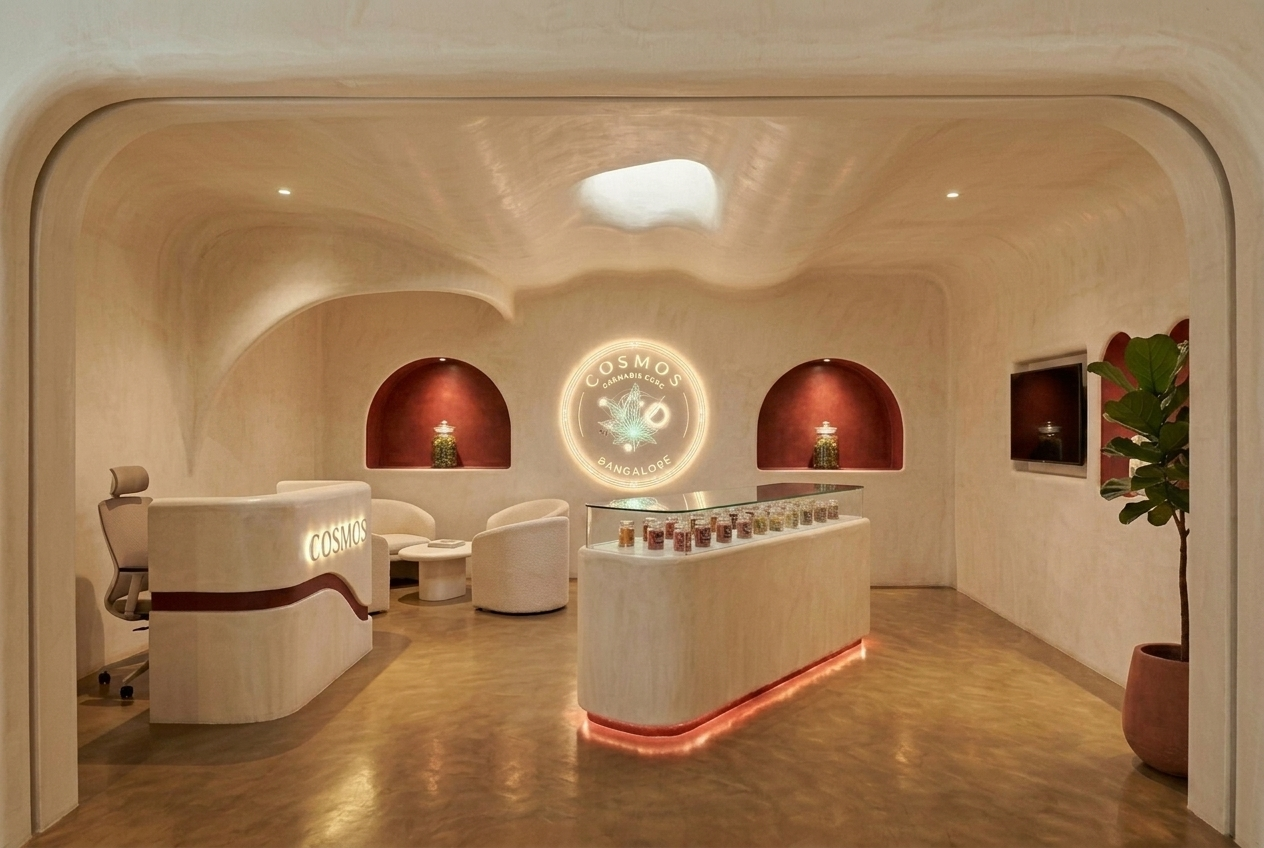
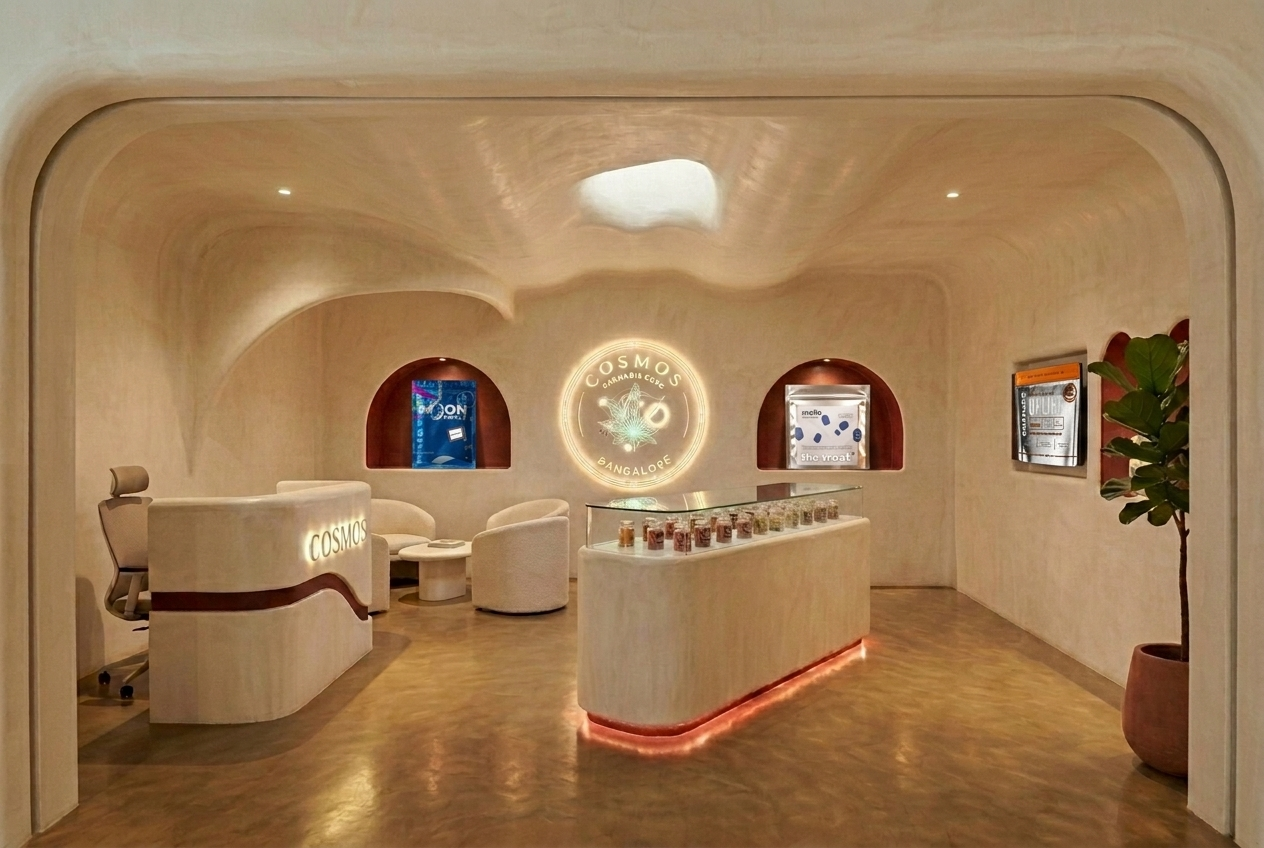
## Real Product Niches + Interior Gallery (Done & Verified) - **Real products in niches**: Composited the actual featured packs — Moon Impact (blue), Trost "mello", and Cannazo "UPLIFT" — into the three arched niches, each spotlit (interior-concept.jpg updated) - **Second angle**: Generated a warm r
Note: the niche products are AI-composited approximations of the real packaging — swap for proper studio shots whenever you have them for pixel-accurate branding.

- Next Action Items:
  - **Studio Product Shots**: Send real jar/pack photos and I'll drop them into the niches for exact accuracy
  - **Redeploy Production**: Push all recent updates live to www.cosmoscannabis.in
  - **Interior Lightbox**: Make the gallery images click-to-zoom for a closer look
  - **Compliance Badges**: Add GMP/ISO/FSSAI logos to product pages once you upload the official files

Changed region(s): [[0.6171, 0.4292, 0.7097, 0.5825], [0.3085, 0.4292, 0.4011, 0.5825], [0.8022, 0.4292, 0.8639, 0.5519]]

diff --git a/frontend/src/pages/Home.js b/frontend/src/pages/Home.js
@@ -404,12 +404,26 @@ export default function Home() {
             whileInView={{ opacity: 1, scale: 1 }}
             viewport={{ once: true, margin: "-80px" }}
             transition={{ duration: 1, ease: [0.22, 1, 0.36, 1] }}
-            className="overflow-hidden aspect-[3/2] md:aspect-[16/9]"
+            className="overflow-hidden aspect-[3/2] md:aspect-[16/9] mb-4"
             data-testid="interior-image-wrap"
           >
             <img
               src="/brand-assets/store/interior-concept.jpg"
-              alt="Cosmos Cannabis Cure interior concept"
+              alt="Cosmos Cannabis Cure interior — product niches and island counter"
+              className="w-full h-full object-cover"
+            />
+          </motion.div>
+          <motion.div
+            initial={{ opacity: 0, y: 30 }}
+            whileInView={{ opacity: 1, y: 0 }}
+            viewport={{ once: true, margin: "-60px" }}
+            transition={{ duration: 0.9, delay: 0.1, ease: [0.22, 1, 0.36, 1] }}
+            className="overflow-hidden aspect-[3/2] md:aspect-[21/9]"
+            data-testid="interior-image-reception"
+          >
+            <img
+              src="/brand-assets/store/interior-reception.jpg"
+              alt="Cosmos Cannabis Cure reception desk and doctor consultation nook"
               className="w-full h-full object-cover"
             />
           </motion.div>

diff --git a/memory/PRD.md b/memory/PRD.md
@@ -135,3 +135,8 @@ admin@cosmoscure.in / Cosmos@2026 (also in /app/memory/test_credentials.md)
 
 ## Update (2026-07) — Interior Layout Refinement
 - Reworked interior render per feedback: island counter rotated LENGTHWISE with glass display top facing the entrance; niche walls now wherever "Display" was marked (full back wall + right wall + flanking the embedded TV), each niche with a single spotlit product; curved sculpted reception desk (lit COSMOS logo); back-left seating designated as the DOCTOR CONSULTATION nook (two armchairs + round table). Same white/cream plaster + red niche palette. Updated /brand-assets/store/interior-concept.jpg (live in the "Inside the Store" section).
+
+## Update (2026-07) — Real Products in Niches + Interior Gallery
+- Composited the actual featured product packs (Moon Impact / Trost mello / Cannazo UPLIFT) into the three interior niches via image editing (interior-concept.jpg updated).
+- Generated a reception + doctor-consultation-nook close-up (interior-reception.jpg) and turned the homepage "Inside the Store" section into a 2-image gallery (data-testids: interior-image-wrap, interior-image-reception). Verified live via screenshot.
+- Note: niche products are AI-composited approximations of the real packs; swap for studio jar shots when available.
